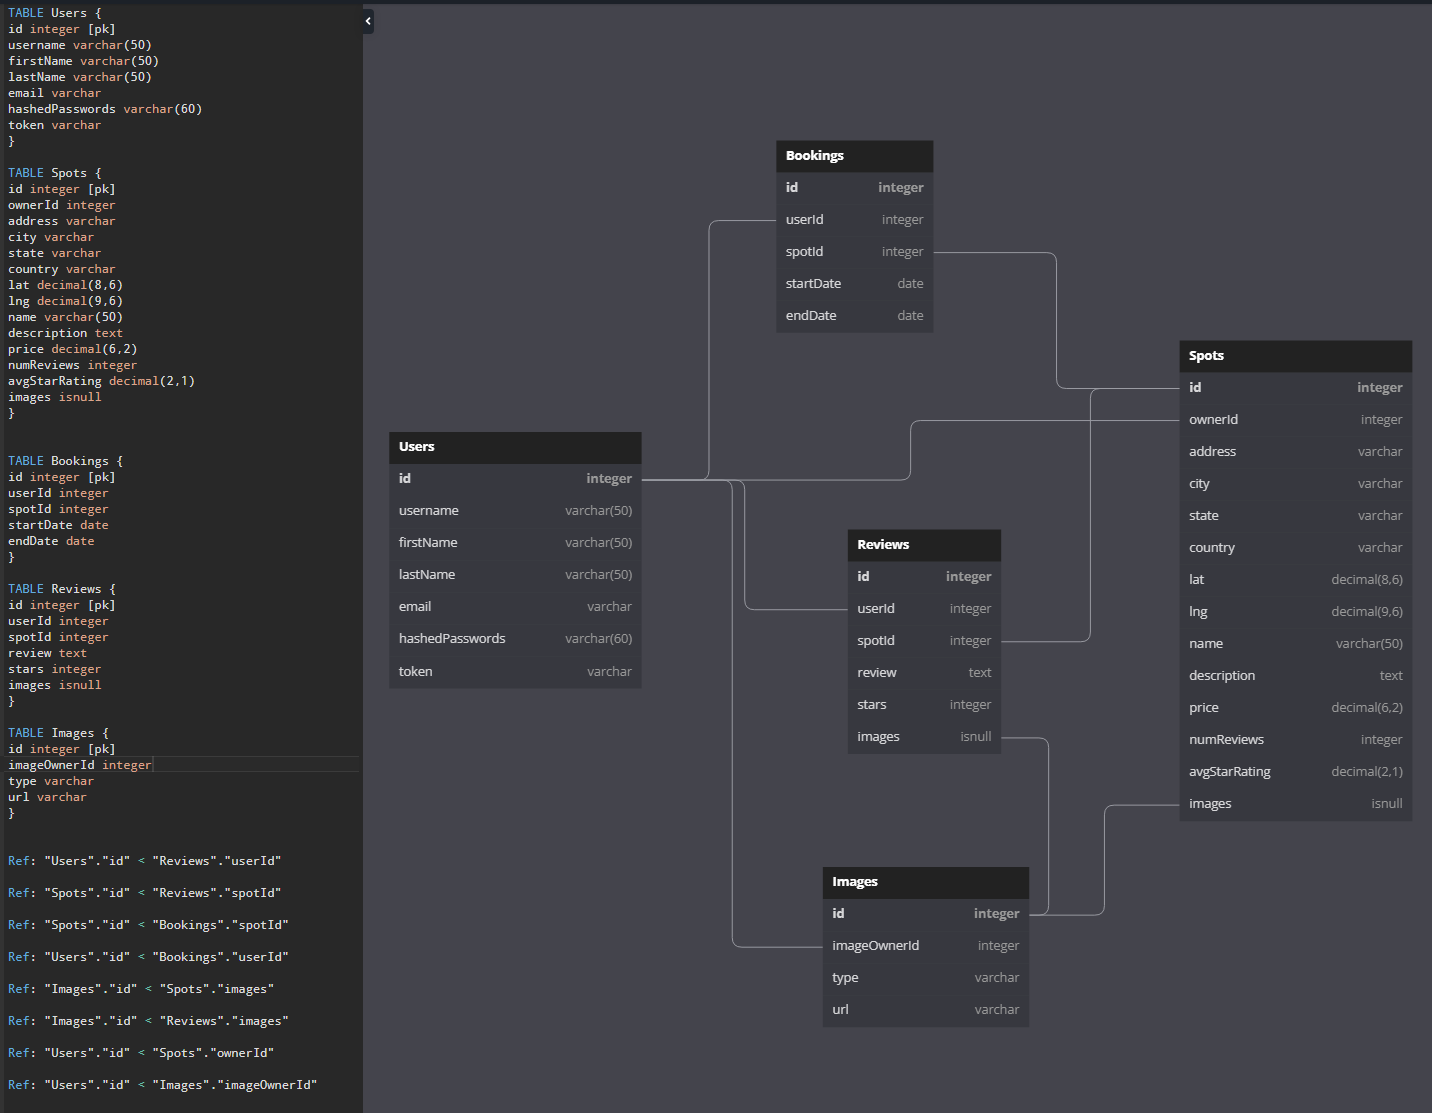
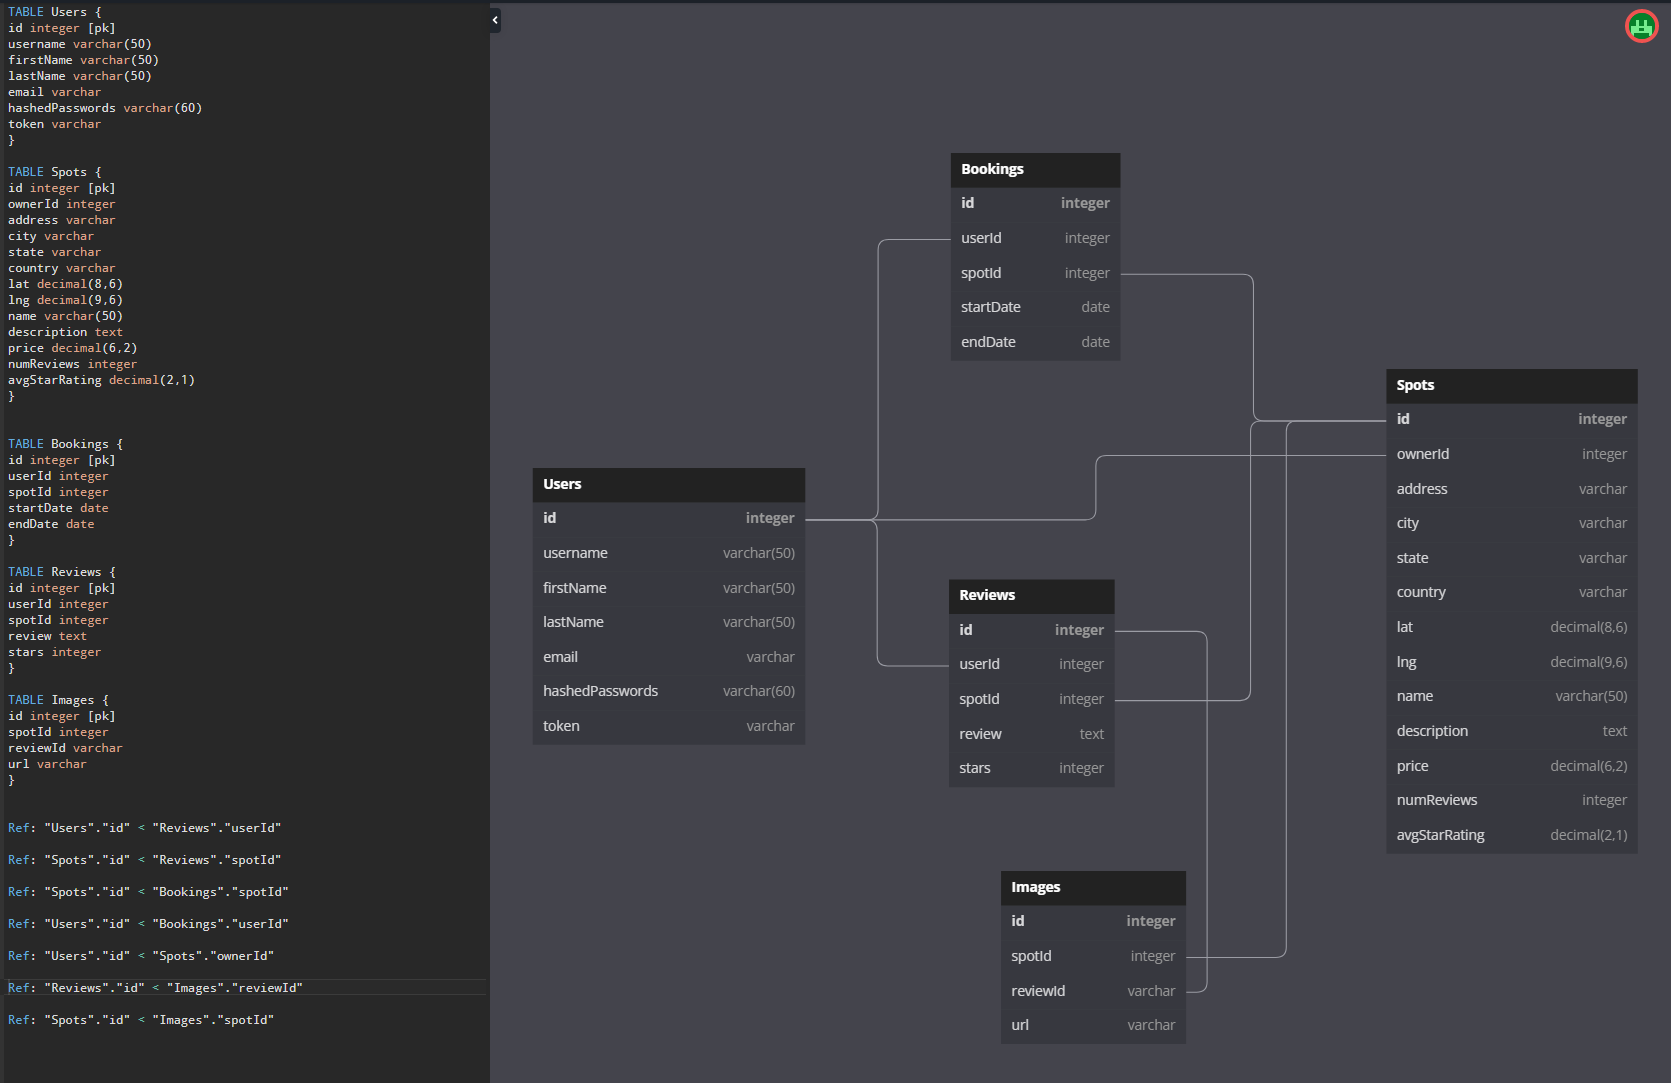
tables created

diff --git a/backend/db/migrations/20220701172657-create-spot.js b/backend/db/migrations/20220701172657-create-spot.js
@@ -1,0 +1,60 @@
+'use strict';
+module.exports = {
+  async up(queryInterface, Sequelize) {
+    await queryInterface.createTable('Spots', {
+      id: {
+        allowNull: false,
+        autoIncrement: true,
+        primaryKey: true,
+        type: Sequelize.INTEGER
+      },
+      ownerId: {
+        type: Sequelize.INTEGER
+      },
+      address: {
+        type: Sequelize.STRING
+      },
+      city: {
+        type: Sequelize.STRING
+      },
+      state: {
+        type: Sequelize.STRING
+      },
+      country: {
+        type: Sequelize.STRING
+      },
+      lat: {
+        type: Sequelize.DECIMAL(8,6)
+      },
+      lng: {
+        type: Sequelize.DECIMAL(9,6)
+      },
+      name: {
+        type: Sequelize.STRING
+      },
+      description: {
+        type: Sequelize.TEXT
+      },
+      price: {
+        type: Sequelize.DECIMAL(6,2)
+      },
+      numReviews: {
+        type: Sequelize.INTEGER
+      },
+      avgStarRating: {
+        type: Sequelize.DECIMAL(2,1)
+      },
+      createdAt: {
+        allowNull: false,
+        type: Sequelize.DATE
+      },
+      updatedAt: {
+        allowNull: false,
+        type: Sequelize.DATE
+      }
+    });
+  },
+  async down(queryInterface, Sequelize) {
+    await queryInterface.dropTable('Spots');
+  }
+};

diff --git a/backend/db/seeders/20220629184357-demo-user.js b/backend/db/seeders/20220629184357-demo-user.js
@@ -6,18 +6,27 @@ module.exports = {
     await queryInterface.bulkInsert('Users', [
       {
         email: 'demo@user.io',
+        firstName: 'demo',
+        lastName: 'user',
         username: 'Demo-lition',
-        hashedPassword: bcrypt.hashSync('password')
+        hashedPassword: bcrypt.hashSync('password'),
+        token: null
       },
       {
         email: 'user1@user.io',
+        firstName: 'demo',
+        lastName: 'user',
         username: 'FakeUser1',
-        hashedPassword: bcrypt.hashSync('password2')
+        hashedPassword: bcrypt.hashSync('password2'),
+        token: null
       },
       {
         email: 'user2@user.io',
+        firstName: 'demo',
+        lastName: 'user',
         username: 'FakeUser2',
-        hashedPassword: bcrypt.hashSync('password3')
+        hashedPassword: bcrypt.hashSync('password3'),
+        token: null
       }
     ])
   },

diff --git a/backend/db/models/spot.js b/backend/db/models/spot.js
@@ -1,0 +1,34 @@
+'use strict';
+const {
+  Model
+} = require('sequelize');
+module.exports = (sequelize, DataTypes) => {
+  class Spot extends Model {
+    /**
+     * Helper method for defining associations.
+     * This method is not a part of Sequelize lifecycle.
+     * The `models/index` file will call this method automatically.
+     */
+    static associate(models) {
+      // define association here
+    }
+  }
+  Spot.init({
+    ownerId: DataTypes.INTEGER,
+    address: DataTypes.STRING,
+    city: DataTypes.STRING,
+    state: DataTypes.STRING,
+    country: DataTypes.STRING,
+    lat: DataTypes.DECIMAL,
+    lng: DataTypes.DECIMAL,
+    name: DataTypes.STRING,
+    description: DataTypes.TEXT,
+    price: DataTypes.DECIMAL,
+    numReviews: DataTypes.INTEGER,
+    avgStarRating: DataTypes.DECIMAL
+  }, {
+    sequelize,
+    modelName: 'Spot',
+  });
+  return Spot;
+};

diff --git a/backend/db/migrations/20220701165016-create-booking.js b/backend/db/migrations/20220701165016-create-booking.js
@@ -1,0 +1,40 @@
+'use strict';
+
+const reviews = require("../models/reviews");
+
+module.exports = {
+  async up(queryInterface, Sequelize) {
+    await queryInterface.createTable('Bookings', {
+      id: {
+        allowNull: false,
+        autoIncrement: true,
+        primaryKey: true,
+        type: Sequelize.INTEGER
+      },
+      userId: {
+        type: Sequelize.INTEGER
+      },
+      spotId: {
+        type: Sequelize.INTEGER
+      },
+      startDate: {
+        type: Sequelize.DATE
+      },
+      endDate: {
+        type: Sequelize.DATE
+      },
+      createdAt: {
+        allowNull: false,
+        type: Sequelize.DATE
+      },
+      updatedAt: {
+        allowNull: false,
+        type: Sequelize.DATE
+      }
+    });
+  },
+  async down(queryInterface, Sequelize) {
+    await queryInterface.dropTable('Bookings');
+  }
+};
+

diff --git a/backend/db/migrations/20220701165434-create-reviews.js b/backend/db/migrations/20220701165434-create-reviews.js
@@ -1,0 +1,36 @@
+'use strict';
+module.exports = {
+  async up(queryInterface, Sequelize) {
+    await queryInterface.createTable('Reviews', {
+      id: {
+        allowNull: false,
+        autoIncrement: true,
+        primaryKey: true,
+        type: Sequelize.INTEGER
+      },
+      userId: {
+        type: Sequelize.INTEGER
+      },
+      spotId: {
+        type: Sequelize.INTEGER
+      },
+      review: {
+        type: Sequelize.TEXT
+      },
+      stars: {
+        type: Sequelize.INTEGER
+      },
+      createdAt: {
+        allowNull: false,
+        type: Sequelize.DATE
+      },
+      updatedAt: {
+        allowNull: false,
+        type: Sequelize.DATE
+      }
+    });
+  },
+  async down(queryInterface, Sequelize) {
+    await queryInterface.dropTable('Reviews');
+  }
+};

diff --git a/backend/db/migrations/20220701172319-create-image.js b/backend/db/migrations/20220701172319-create-image.js
@@ -1,0 +1,33 @@
+'use strict';
+module.exports = {
+  async up(queryInterface, Sequelize) {
+    await queryInterface.createTable('Images', {
+      id: {
+        allowNull: false,
+        autoIncrement: true,
+        primaryKey: true,
+        type: Sequelize.INTEGER
+      },
+      spotId: {
+        type: Sequelize.INTEGER
+      },
+      reviewId: {
+        type: Sequelize.INTEGER
+      },
+      url: {
+        type: Sequelize.STRING
+      },
+      createdAt: {
+        allowNull: false,
+        type: Sequelize.DATE
+      },
+      updatedAt: {
+        allowNull: false,
+        type: Sequelize.DATE
+      }
+    });
+  },
+  async down(queryInterface, Sequelize) {
+    await queryInterface.dropTable('Images');
+  }
+};

diff --git a/backend/db/models/user.js b/backend/db/models/user.js
@@ -65,6 +65,22 @@ module.exports = (sequelize, DataTypes) => {
         }
       }
     },
+    firstName: {
+      type: DataTypes.STRING,
+      allowNull: false,
+      validate: {
+        len: [3, 50],
+        isAlpha: true
+      }
+    },
+    lastName: {
+      type: DataTypes.STRING,
+      allowNull: false,
+      validate: {
+        len: [3, 50],
+        isAlpha: true
+      }
+    },
     email: {
       type: DataTypes.STRING,
       allowNull: false,
@@ -80,7 +96,10 @@ module.exports = (sequelize, DataTypes) => {
       validate: {
         len: [60, 60]
       }
-    }
+    },
+    token: {
+      type: DataTypes.STRING
+    },
   }, {
     sequelize,
     modelName: 'User',

diff --git a/backend/db/models/booking.js b/backend/db/models/booking.js
@@ -1,0 +1,26 @@
+'use strict';
+const {
+  Model
+} = require('sequelize');
+module.exports = (sequelize, DataTypes) => {
+  class Booking extends Model {
+    /**
+     * Helper method for defining associations.
+     * This method is not a part of Sequelize lifecycle.
+     * The `models/index` file will call this method automatically.
+     */
+    static associate(models) {
+      // define association here
+    }
+  }
+  Booking.init({
+    userId: DataTypes.INTEGER,
+    spotId: DataTypes.INTEGER,
+    startDate: DataTypes.DATE,
+    endDate: DataTypes.DATE
+  }, {
+    sequelize,
+    modelName: 'Booking',
+  });
+  return Booking;
+};

diff --git a/backend/db/models/reviews.js b/backend/db/models/reviews.js
@@ -1,0 +1,26 @@
+'use strict';
+const {
+  Model
+} = require('sequelize');
+module.exports = (sequelize, DataTypes) => {
+  class Reviews extends Model {
+    /**
+     * Helper method for defining associations.
+     * This method is not a part of Sequelize lifecycle.
+     * The `models/index` file will call this method automatically.
+     */
+    static associate(models) {
+      // define association here
+    }
+  }
+  Reviews.init({
+    userId: DataTypes.INTEGER,
+    spotId: DataTypes.INTEGER,
+    review: DataTypes.TEXT,
+    stars: DataTypes.INTEGER
+  }, {
+    sequelize,
+    modelName: 'Reviews',
+  });
+  return Reviews;
+};

diff --git a/backend/db/migrations/20220629182948-create-user.js b/backend/db/migrations/20220629182948-create-user.js
@@ -13,14 +13,25 @@ module.exports = {
         allowNull: false,
         unique: true
       },
+      firstName: {
+        type: Sequelize.STRING(50),
+        allowNull: false
+      },
+      lastName: {
+        type: Sequelize.STRING(50),
+        allowNull: false
+      },
       email: {
-        type: Sequelize.STRING(256),
+        type: Sequelize.STRING(255),
         allowNull: false,
         unique: true
       },
       hashedPassword: {
         type: Sequelize.STRING.BINARY,
         allowNull: false
+      },
+      token: {
+        type: Sequelize.STRING
       },
       createdAt: {
         allowNull: false,

diff --git a/backend/db/models/image.js b/backend/db/models/image.js
@@ -1,0 +1,25 @@
+'use strict';
+const {
+  Model
+} = require('sequelize');
+module.exports = (sequelize, DataTypes) => {
+  class Image extends Model {
+    /**
+     * Helper method for defining associations.
+     * This method is not a part of Sequelize lifecycle.
+     * The `models/index` file will call this method automatically.
+     */
+    static associate(models) {
+      // define association here
+    }
+  }
+  Image.init({
+    spotId: DataTypes.INTEGER,
+    reviewId: DataTypes.INTEGER,
+    url: DataTypes.STRING
+  }, {
+    sequelize,
+    modelName: 'Image',
+  });
+  return Image;
+};
